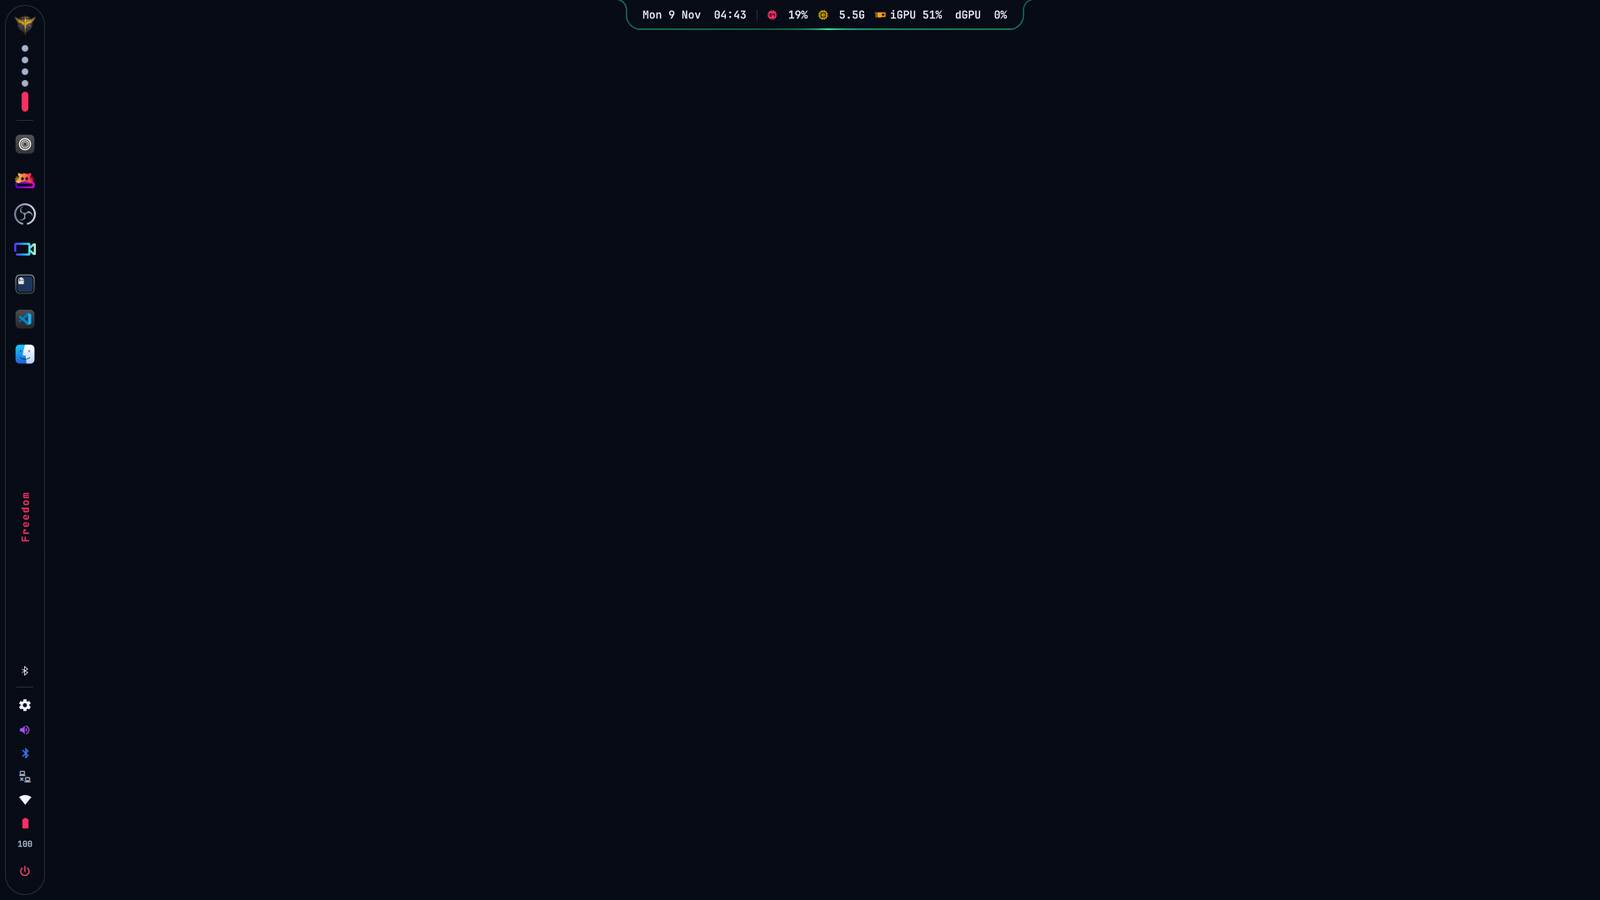
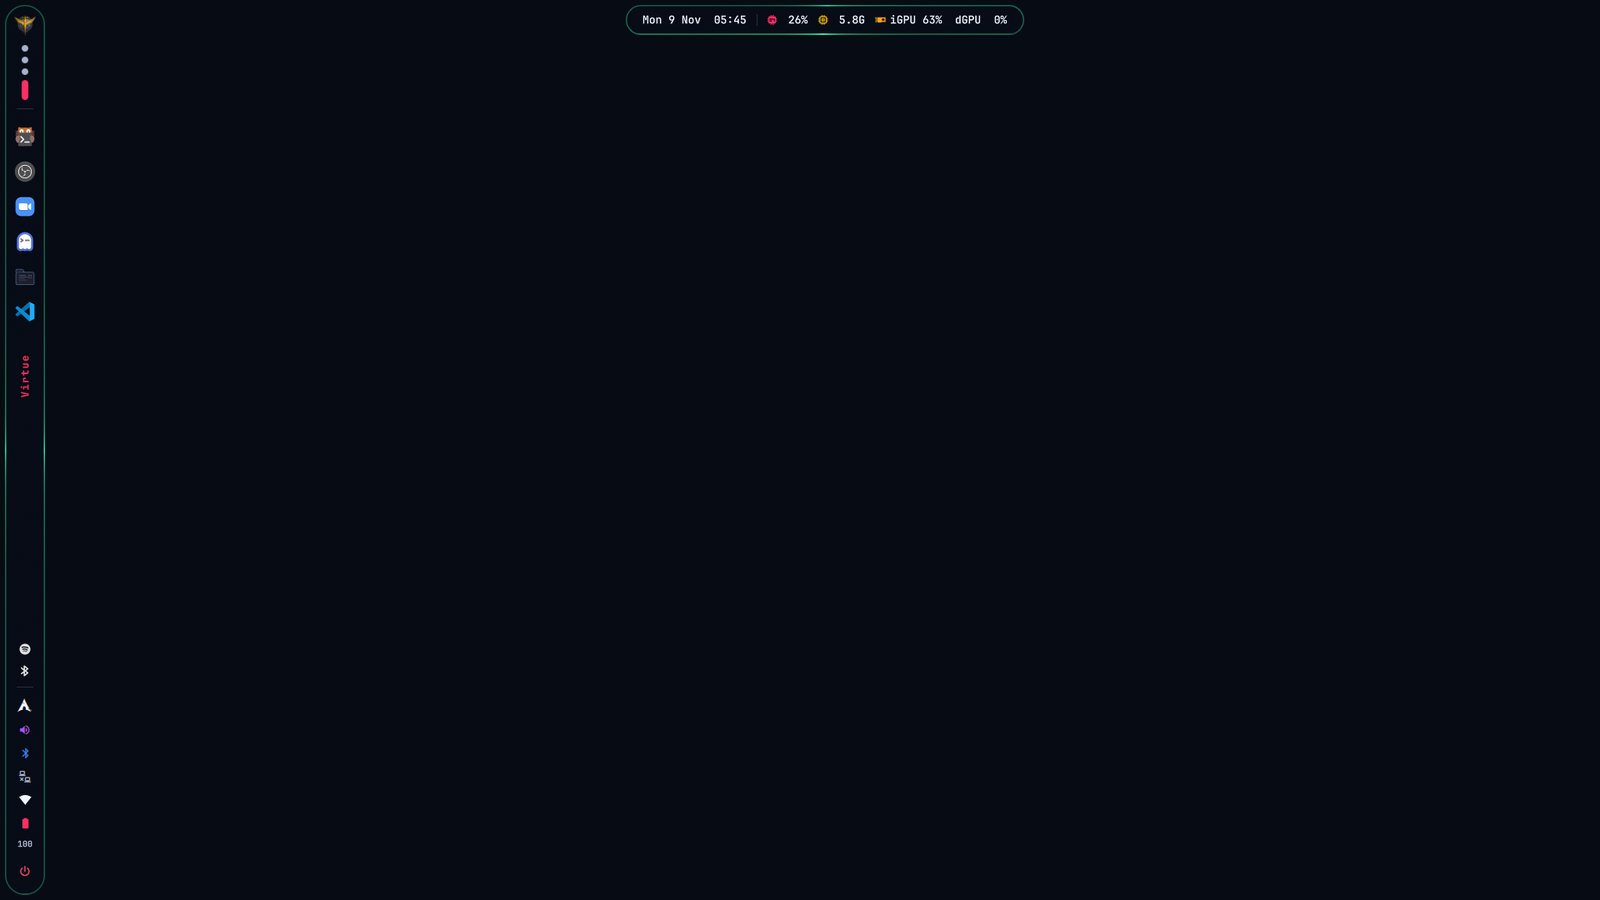
feat: floating island, search takes keys at once, tighter sidebar (1.8.0)
- Island uses the sidebar's body (glass rectangle + glow ring), 6 px below the top edge;
  IslandShape.qml and its qmldir entry are removed.
- Island panel is a FocusScope, so Super+Space search and the Hangar input get keyboard focus
  without moving the cursor.
- Sidebar desktop name sits centred in the free space below the apps, never smaller than the
  longest name; apps keep their room.
- README: island description and a new empty-desktop screenshot.

Why: the island and sidebar had different shapes, search needed a cursor move before typing,
and the name slot squeezed the app list.
Verified: QML reloads with no errors; focus probe showed the input focused on 3 of 3 opens;
screenshots of the closed and open island and of the sidebar; slop scan clean.

diff --git a/quickshell/dap/Island.qml b/quickshell/dap/Island.qml
@@ -13,7 +13,7 @@ PanelWindow {
     implicitHeight: 900
     color: "transparent"
     // The bar moved to the left edge; the island now keeps the top strip clear of windows.
-    exclusiveZone: 40
+    exclusiveZone: 46
     WlrLayershell.namespace: "dap-island"
     // Search takes the keyboard at once (on-demand focus only arrives after a click or hover).
     // Exclusive focus clears a focus grab immediately, which would close the island, so search
@@ -66,35 +66,11 @@ PanelWindow {
         : Ui.sheet === "sense" && senseCard.item ? Math.min(sheetChrome + senseCard.item.implicitHeight, (screen ? screen.height : 1080) - 60)
         : tab === 6 ? 470 : 388
 
-    // Body hanging from the top edge, with concave fillets into it. Drawn under the content.
-    IslandShape {
-        id: ringGlow
-        x: shape.x; y: 0
-        w: shape.width; h: shape.height
-        radius: shape.radius
-        fillet: win.mode === "open" ? 18 : 12
-        fill: win.mode === "pill" && pillArea.containsMouse ? Theme.glassStrong : Theme.glass
-        // Measured: spinning on the always-visible pill cost ~18% of a core, so it only
-        // travels while the island is open or showing a toast.
-        spinning: win.mode !== "pill" && !Ui.dnd
-        solid: Ui.dnd ? Qt.rgba(Theme.psycho.r, Theme.psycho.g, Theme.psycho.b, 0.45 + 0.55 * breathe) : "transparent"
-        // NT-D breathes only while the island is open or toasting; the always-on pill stays still.
-        property real breathe: 1
-        SequentialAnimation on breathe {
-            running: Ui.dnd && win.mode !== "pill"
-            loops: Animation.Infinite
-            onRunningChanged: if (!running) ringGlow.breathe = 1
-            NumberAnimation { to: 0; duration: 900; easing.type: Easing.InOutSine }
-            NumberAnimation { to: 1; duration: 900; easing.type: Easing.InOutSine }
-        }
-        // Closed: GN green radar. Open or toasting: anime blue / Trans-Am red.
-        colors: win.mode === "pill" ? [Theme.gn, Qt.darker(Theme.gn, 2.6), Theme.gn, Qt.darker(Theme.gn, 2.6)] : null
-        Behavior on fillet { NumberAnimation { duration: 260; easing.type: Easing.OutExpo } }
-    }
-
     Rectangle {
         id: shape
         anchors.horizontalCenter: parent.horizontalCenter
+        // Floats 6 px below the screen edge, like the sidebar's margins.
+        y: 6
         // Hangar (apps only) opens extra wide.
         width: win.mode === "open" ? (win.tab === 6 && Ui.sheet === "" ? 900 : 600) : win.mode === "toast" ? 460 : pill.implicitWidth + 40
         height: win.mode === "open" ? win.openHeight : win.mode === "toast" ? 64 : 36
@@ -102,9 +78,30 @@ PanelWindow {
         Behavior on width { Spring {} }
         Behavior on height { Spring {} }
         Behavior on radius { Spring {} }
-        // The visible body is IslandShape (attached to the top edge); this item sizes, clips and masks.
-        color: "transparent"
+        color: win.mode === "pill" && pillArea.containsMouse ? Theme.glassStrong : Theme.glass
         clip: true
+
+        // Same body as the sidebar: a floating glass rectangle with a glow ring.
+        GlowRing {
+            id: ringGlow
+            anchors.fill: parent
+            radius: parent.radius
+            // Measured: spinning on the always-visible pill cost ~18% of a core, so it only
+            // travels while the island is open or showing a toast.
+            spinning: win.mode !== "pill" && !Ui.dnd
+            solid: Ui.dnd ? Qt.rgba(Theme.psycho.r, Theme.psycho.g, Theme.psycho.b, 0.45 + 0.55 * breathe) : "transparent"
+            // NT-D breathes only while the island is open or toasting; the always-on pill stays still.
+            property real breathe: 1
+            SequentialAnimation on breathe {
+                running: Ui.dnd && win.mode !== "pill"
+                loops: Animation.Infinite
+                onRunningChanged: if (!running) ringGlow.breathe = 1
+                NumberAnimation { to: 0; duration: 900; easing.type: Easing.InOutSine }
+                NumberAnimation { to: 1; duration: 900; easing.type: Easing.InOutSine }
+            }
+            // Closed: GN green radar. Open or toasting: anime blue / Trans-Am red.
+            colors: win.mode === "pill" ? [Theme.gn, Qt.darker(Theme.gn, 2.6), Theme.gn, Qt.darker(Theme.gn, 2.6)] : null
+        }
 
         MouseArea {
             id: pillArea
@@ -149,7 +146,8 @@ PanelWindow {
             running: visible
         }
 
-        Item {
+        // A focus scope, so focus given to the panel lands on the sheet's input instead of the panel.
+        FocusScope {
             id: panel
             anchors.fill: parent
             anchors.margins: 16

diff --git a/quickshell/dap/SideBar.qml b/quickshell/dap/SideBar.qml
@@ -112,8 +112,10 @@ PanelWindow {
                 id: apps
                 Layout.alignment: Qt.AlignHCenter
                 Layout.preferredWidth: 36
-                Layout.fillHeight: true
-                Layout.maximumHeight: contentHeight
+                // Takes what the apps need and shrinks (then scrolls) only when the name slot and tray
+                // below leave too little room.
+                Layout.preferredHeight: contentHeight
+                Layout.minimumHeight: 36
                 spacing: 6
                 clip: true
                 interactive: contentHeight > height
@@ -160,14 +162,21 @@ PanelWindow {
                 }
             }
 
-            // Desktop name, written along the bar.
+            // Desktop name, written along the bar, centred in the free space between apps and tray;
+            // never smaller than the longest name plus a small gap.
+            TextMetrics {
+                id: longestName
+                font: deskName.font
+                text: Ui.deskNames.reduce((a, b) => b.length > a.length ? b : a, "")
+            }
             Item {
                 Layout.fillWidth: true
                 Layout.fillHeight: true
+                Layout.minimumHeight: Math.ceil(longestName.advanceWidth) + 12
                 Text {
+                    id: deskName
                     anchors.centerIn: parent
                     rotation: -90
-                    visible: implicitWidth < parent.height - 8
                     text: bar.activeId ? Ui.deskName(bar.activeId) : ""
                     font.family: Theme.font; font.pixelSize: 12; font.weight: Font.Bold; font.letterSpacing: 1.5
                     color: bar.activeId ? Ui.deskColor(bar.activeId) : Theme.accent

diff --git a/README.md b/README.md
@@ -74,7 +74,7 @@ Each command decodes out of noise before it runs. `sudo`/`doas`/`run0` get a cau
 ## Layout: side bar and island
 
 - **Side bar** (`SideBar.qml`, left edge): emblem (app menu), desktops, apps (pinned first, then running; right click for pin, new window, close), the desktop name, tray, the Arch logo with status (volume, Bluetooth, LAN, Wi-Fi, battery), and power. The Arch logo opens the Bridge; power opens the Launch Bay.
-- **Island** (`Island.qml`, `IslandShape.qml`): hangs from the top edge with concave corners. Closed it shows the date, time, CPU, RAM and GPU; it grows out of the edge into tabs: Haro (music), Mission (calendar), Sortie (focus timer), Orders (todo), Comms (notifications), Veda (system), Hangar (apps). `qs -c dap ipc call shell tab N` opens tab N (0 to 6).
+- **Island** (`Island.qml`): floats just under the top edge with the same glass and glow ring as the side bar. Closed it shows the date, time, CPU, RAM and GPU; it opens into tabs: Haro (music), Mission (calendar), Sortie (focus timer), Orders (todo), Comms (notifications), Veda (system), Hangar (apps). `qs -c dap ipc call shell tab N` opens tab N (0 to 6).
 - **Bridge** (`ControlPanel.qml`, a sheet, not a tab): Wi-Fi, Bluetooth, appearance, NT-D, volume, mic, brightness, power profiles, displays, GN Sense. The island grows to fit it. `qs -c dap ipc call shell bridge` (or `cc`) opens it.
 - **Veda** (`NotchSystem.qml`): gauges for CPU load, CPU temperature, memory and Iris Xe. The NVIDIA GPU is not read, since reading it wakes the card.
 - **Hangar** (`NotchHangar.qml`): every app, with search. The island opens extra wide on this tab. Type to filter, Enter launches the highlighted app, arrows move.
